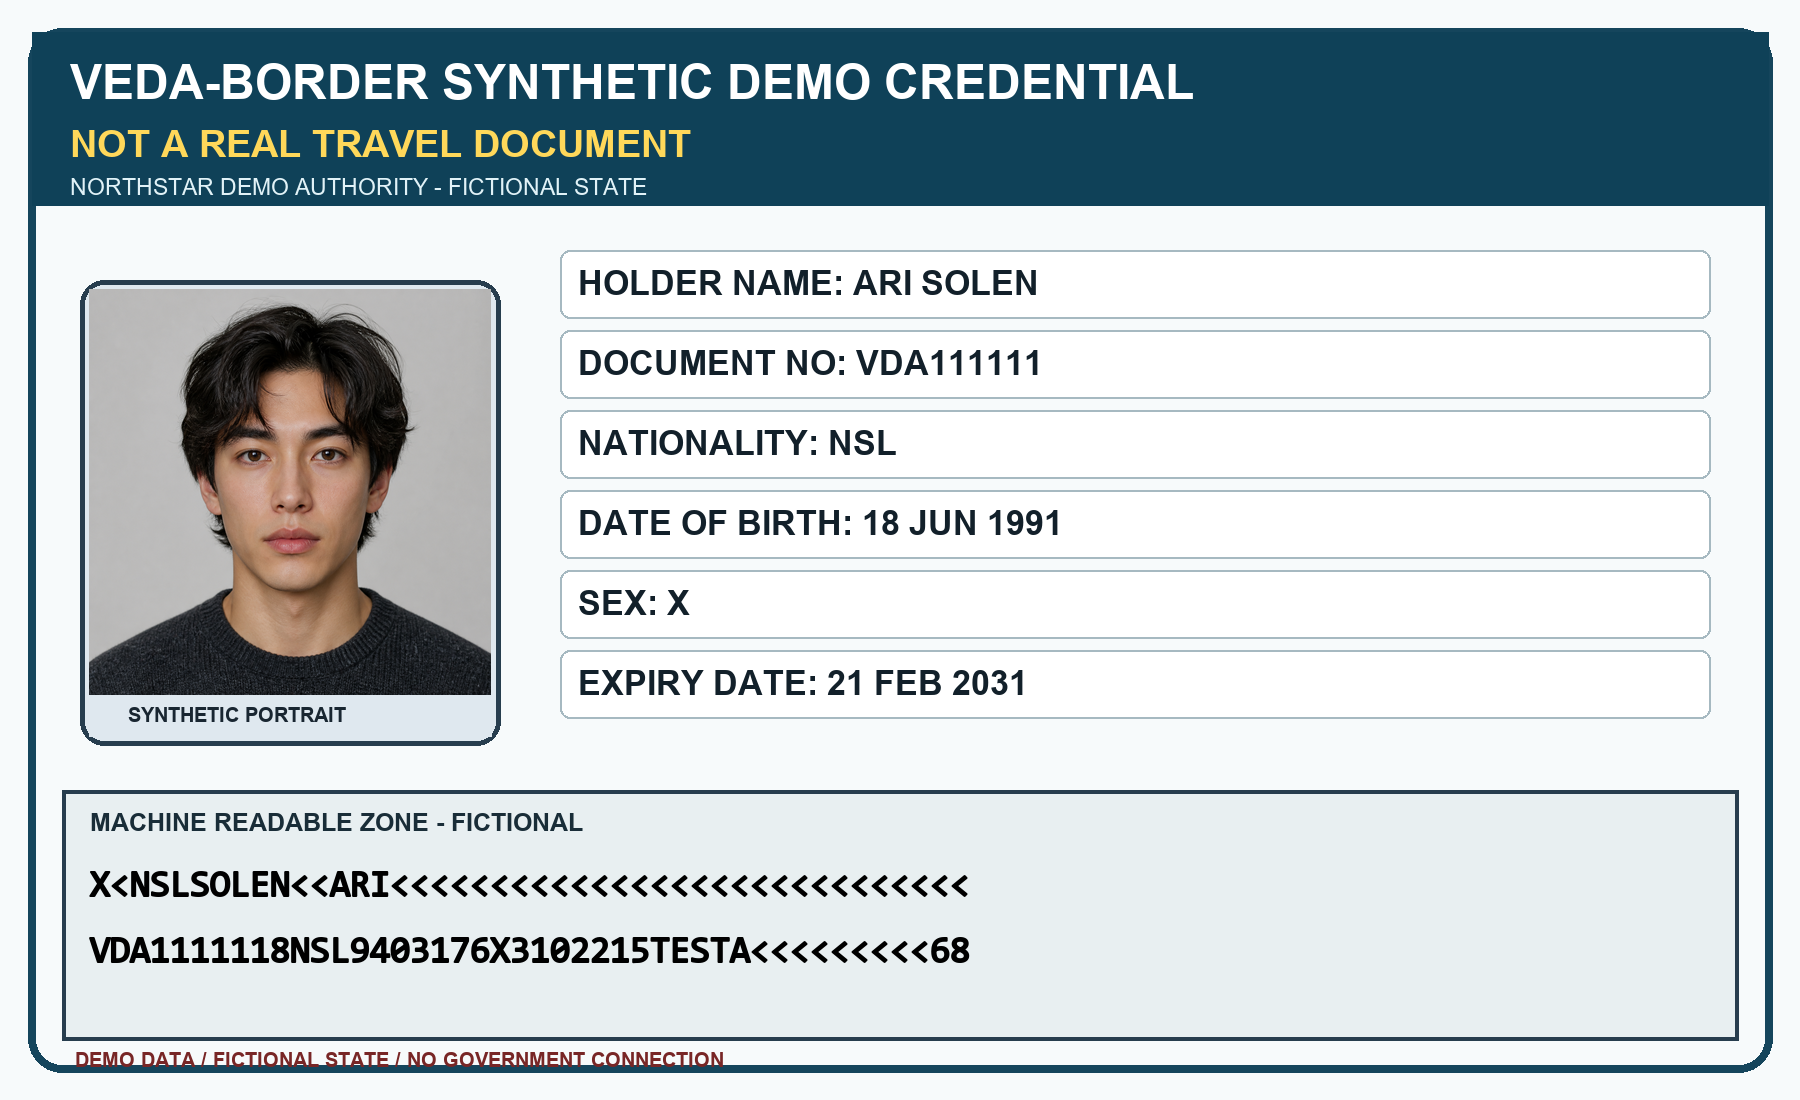
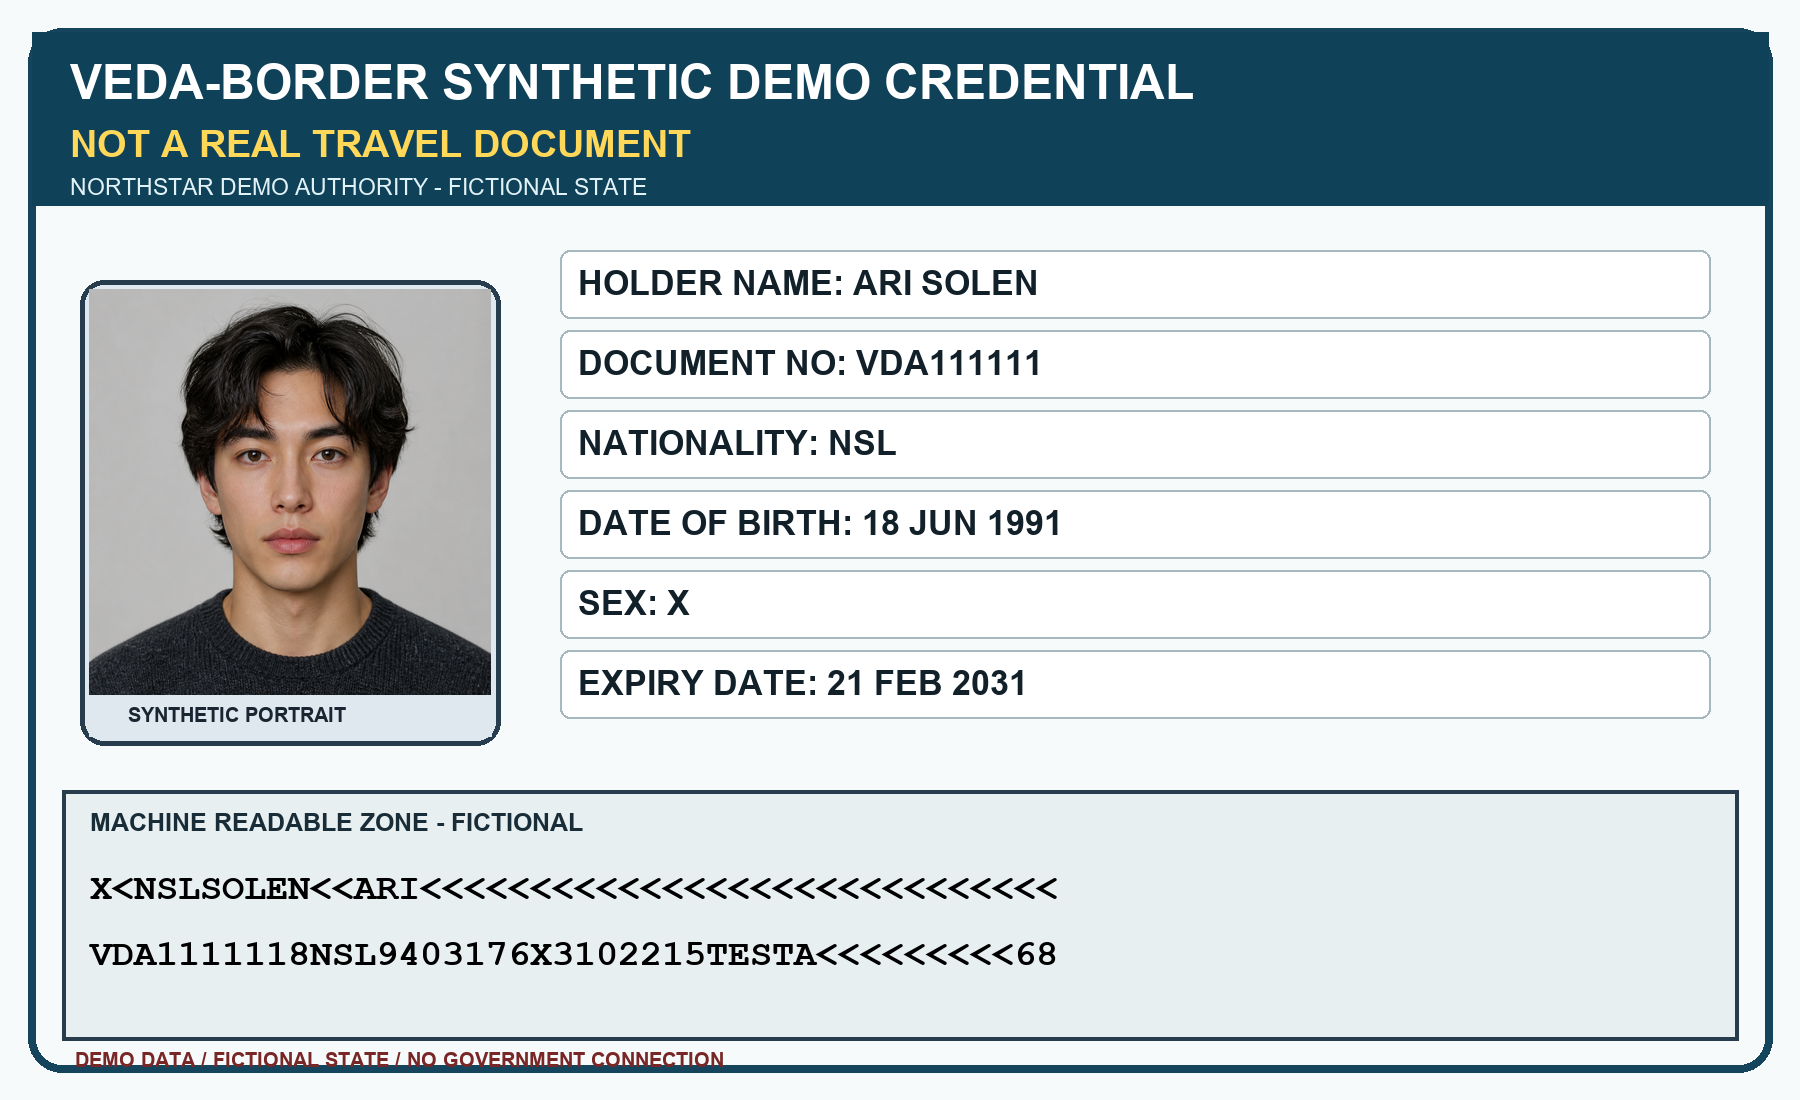
Minor fixes

Changed region(s): [[0.0622, 0.7727, 0.5911, 0.8964]]

diff --git a/services/api/app/extraction.py b/services/api/app/extraction.py
@@ -1,7 +1,9 @@
 from __future__ import annotations
 
 import csv
+import os
 import re
+import shutil
 import subprocess
 import tempfile
 from datetime import datetime
@@ -50,20 +52,36 @@ def _parse_tsv(tsv: str) -> tuple[str, dict[str, float], float | None, list[dict
     return "\n".join(rendered), confidences, overall, tokens
 
 
+def find_tesseract() -> str | None:
+    env_cmd = os.environ.get("TESSERACT_CMD")
+    if env_cmd and os.path.isfile(env_cmd):
+        return env_cmd
+    cmd = shutil.which("tesseract")
+    if cmd:
+        return cmd
+    win_candidates = [
+        r"D:\Tr-OCR\tesseract.exe",
+        r"C:\Program Files\Tesseract-OCR\tesseract.exe",
+        r"C:\Program Files (x86)\Tesseract-OCR\tesseract.exe",
+        r"C:\Tesseract-OCR\tesseract.exe",
+        r"D:\Tesseract-OCR\tesseract.exe",
+        os.path.expandvars(r"%LOCALAPPDATA%\Programs\Tesseract-OCR\tesseract.exe"),
+    ]
+    for cand in win_candidates:
+        if os.path.isfile(cand):
+            return cand
+    return None
+
+
 def _tesseract(image: Image.Image, *, psm: int, whitelist: str | None = None) -> tuple[str, dict[str, float], float | None, str | None, list[dict[str, Any]]]:
-    tesseract_cmd = shutil.which("tesseract")
-    if not tesseract_cmd:
-        win_candidates = [
-            r"C:\Program Files\Tesseract-OCR\tesseract.exe",
-            r"C:\Program Files (x86)\Tesseract-OCR\tesseract.exe",
-            os.path.expandvars(r"%LOCALAPPDATA%\Programs\Tesseract-OCR\tesseract.exe"),
-        ]
-        for cand in win_candidates:
-            if os.path.isfile(cand):
-                tesseract_cmd = cand
-                break
+    tesseract_cmd = find_tesseract()
     if not tesseract_cmd:
         return "", {}, None, "Tesseract executable not found", []
+
+    tessdata_dir = Path(tesseract_cmd).parent / "tessdata"
+    env = os.environ.copy()
+    if tessdata_dir.is_dir():
+        env["TESSDATA_PREFIX"] = str(tessdata_dir)
 
     with tempfile.TemporaryDirectory() as directory:
         input_path = Path(directory) / "pixels.png"
@@ -72,7 +90,7 @@ def _tesseract(image: Image.Image, *, psm: int, whitelist: str | None = None) ->
         if whitelist:
             command[command.index("tsv"):command.index("tsv")] = ["-c", f"tessedit_char_whitelist={whitelist}"]
         try:
-            result = subprocess.run(command, capture_output=True, text=True, check=False)
+            result = subprocess.run(command, capture_output=True, text=True, check=False, env=env)
         except Exception as e:
             return "", {}, None, str(e), []
     if result.returncode != 0:

diff --git a/services/api/app/mrz.py b/services/api/app/mrz.py
@@ -51,10 +51,14 @@ def parse_mrz(raw_text: str) -> MrzResult:
     if len(candidates) < 2:
         return MrzResult(False, {}, {}, [], "two MRZ lines not detected")
     line1, line2 = candidates[-2:]
-    # OCR commonly drops one or two trailing filler glyphs from the name line.
-    # Padding only this non-data suffix is deterministic MRZ format normalization.
-    if line1.startswith("X<") and 40 <= len(line1) < 44:
+    if len(line1) > 44:
+        line1 = line1[:44]
+    if len(line2) > 44:
+        line2 = line2[:44]
+    if 40 <= len(line1) < 44:
         line1 = line1.ljust(44, FILLER)
+    if 40 <= len(line2) < 44:
+        line2 = line2.ljust(44, FILLER)
     if len(line1) != 44 or len(line2) != 44:
         return MrzResult(False, {}, {}, [line1, line2], "MRZ lines must be exactly 44 characters")
     try:
@@ -63,9 +67,12 @@ def parse_mrz(raw_text: str) -> MrzResult:
         optional = line2[28:42]
         composite_value = line2[0:10] + line2[13:20] + line2[21:28] + line2[28:43]
         surname, given = line1[5:].split(FILLER + FILLER, 1)
+        import re
+        surname_clean = re.split(r"<+", surname)[0].strip() if surname else ""
+        given_clean = re.split(r"<+", given)[0].strip() if given else ""
         fields = {
             "document_type": line1[0], "issuing_state": line1[2:5],
-            "surname": surname.replace(FILLER, " ").strip(), "given_names": given.replace(FILLER, " ").strip(),
+            "surname": surname_clean, "given_names": given_clean,
             "document_number": document_number.rstrip(FILLER), "nationality": line2[10:13],
             "date_of_birth": decode_date(dob_value), "sex": line2[20], "expiry_date": decode_date(expiry_value),
             "optional_data": optional.rstrip(FILLER),

diff --git a/services/api/tools/generate_synthetic_benchmark.py b/services/api/tools/generate_synthetic_benchmark.py
@@ -46,8 +46,9 @@ FONT_CANDIDATES = {
         "/usr/share/fonts/truetype/dejavu/DejaVuSans-Bold.ttf",
     ),
     "mono": (
-        "C:/Windows/Fonts/consola.ttf",
+        "C:/Windows/Fonts/courbd.ttf",
         "C:/Windows/Fonts/cour.ttf",
+        "C:/Windows/Fonts/consola.ttf",
         "/usr/share/fonts/google-noto/NotoSansMono-Regular.ttf",
         "/usr/share/fonts/truetype/dejavu/DejaVuSansMono.ttf",
     ),
@@ -129,8 +130,8 @@ def render_credential(payload: dict[str, str]) -> Image.Image:
         draw.text((x1 + 18, y1 + 14), f"{labels[field_name]}: {raw[field_name]}", font=font("bold", 34), fill=(18, 32, 42))
     draw.rectangle((62, 790, 1738, 1040), fill=(232, 239, 241), outline=(39, 61, 78), width=4)
     draw.text((90, 808), "MACHINE READABLE ZONE - FICTIONAL", font=font("bold", 25), fill=(25, 45, 56))
-    draw.text((90, 868), payload["mrz_line_1"], font=font("mono", 37), fill=(0, 0, 0), stroke_width=1)
-    draw.text((90, 934), payload["mrz_line_2"], font=font("mono", 37), fill=(0, 0, 0), stroke_width=1)
+    draw.text((90, 868), payload["mrz_line_1"], font=font("mono", 37), fill=(0, 0, 0))
+    draw.text((90, 934), payload["mrz_line_2"], font=font("mono", 37), fill=(0, 0, 0))
     draw.text((75, 1048), "DEMO DATA / FICTIONAL STATE / NO GOVERNMENT CONNECTION", font=font("bold", 20), fill=(120, 38, 38))
     return image
 

diff --git a/services/api/app/main.py b/services/api/app/main.py
@@ -3,7 +3,13 @@ from fastapi.middleware.cors import CORSMiddleware
 from app.routes import health, scan, workspace
 
 app = FastAPI(title="VEDA-BORDER API", version="0.1.0")
-app.add_middleware(CORSMiddleware, allow_origins=["http://localhost:3000"], allow_methods=["*"], allow_headers=["*"])
+app.add_middleware(
+    CORSMiddleware,
+    allow_origins=["http://localhost:3000", "http://127.0.0.1:3000", "http://localhost:8000", "http://127.0.0.1:8000", "*"],
+    allow_credentials=True,
+    allow_methods=["*"],
+    allow_headers=["*"],
+)
 app.include_router(health.router)
 app.include_router(scan.router)
 app.include_router(workspace.router)

diff --git a/services/api/app/system_status.py b/services/api/app/system_status.py
@@ -7,10 +7,11 @@ from typing import Any
 import cv2
 
 from app.config import resolve_repo_path, settings
+from app.extraction import find_tesseract
 
 
 def module_status() -> dict[str, Any]:
-    tesseract_ready = shutil.which("tesseract") is not None
+    tesseract_ready = find_tesseract() is not None
     detector_file = Path(resolve_repo_path(settings.face_detector_model))
     recognizer_file = Path(resolve_repo_path(settings.face_recognizer_model))
     models_ready = detector_file.is_file() and recognizer_file.is_file() and hasattr(cv2, "FaceRecognizerSF")
